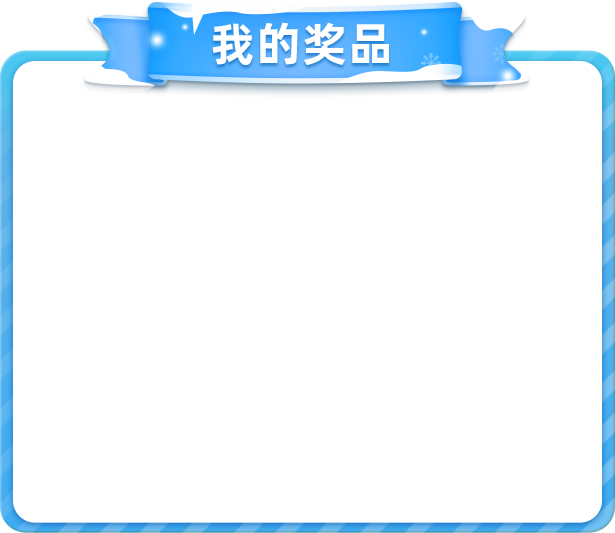
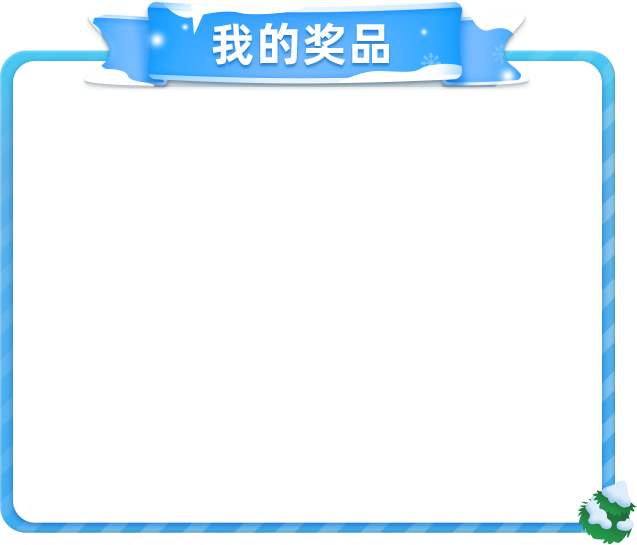
修改适配问题

Changed region(s): [[0.0, 0.0, 1.0, 1.0]]

diff --git a/src/panel/myprize/myprize.jsx b/src/panel/myprize/myprize.jsx
@@ -34,11 +34,11 @@ class Myprize extends React.Component {
   getPrizeList = async () => {
     const { success, data } = await API.getMyPrize();
     if (success && data?.length) {
-      // const list = data.filter((item)=> {
-      //   return item.extra.type !=1
-      // })
+      const list = data.filter((item)=> {
+        return item.extra.type !=1
+      })
       this.setState({
-        list:data,
+        list,
       });
     }
   };
@@ -56,6 +56,7 @@ class Myprize extends React.Component {
     const { list } = this.state;
     return (
       <div className="myprize">
+        <div className="fenwei"></div>
         <span className="popoverBaseplate3"></span>
         <span
           className="shutDown"
@@ -79,7 +80,6 @@ class Myprize extends React.Component {
           }
         </div>
 
-        <span className="iceAndSnowAtmosphere2"></span>
       </div>
     );
   }

diff --git a/src/panel/myprize/myprize.less b/src/panel/myprize/myprize.less
@@ -5,20 +5,28 @@
   position: absolute;
   transform: rotate(90deg);
   overflow: hidden;
+  .fenwei {
+    position: absolute;
+    left:0px;
+    top:150px;
+    width: 820px;
+    height: 219px;
+    .sparkBg("common/冰雪氛围2.png");
+  }
   .popoverBaseplate3 {
-    width: 615px;
-    height: 533px;
-    left: 74px;
+    width: 637px;
+    height: 545px;
+    left: 84px;
     top: 19px;
     position: absolute;
     .sparkBg("myPrize/弹窗底板3.png");
   }
   .text-prize {
     position: absolute;
-    top: 120px;
+    top: 118px;
     color: #000;
     width: 535px;
-    left: 113px;
+    left: 126px;
     text-align: center;
 
   }
@@ -33,9 +41,9 @@
   .prizelistbox {
     width: 535px;
     height: 366px;
-    position: absolute;
+    position: relative;
     top: 160px;
-    left: 113px;
+    left: 127px;
     overflow-y: auto;
     .prizelistitem {
       width: 100%;

diff --git a/src/pages/homePage/homePage.less b/src/pages/homePage/homePage.less
@@ -82,7 +82,7 @@
   .bottoml {
     width: 302px;
     height: 138px;
-    left: 230px;
+    left: 250px;
     top: 612px;
     position: absolute;
     .duiHuanShangDian {
@@ -120,7 +120,7 @@
   .bottomr {
     width: 298px;
     height: 139px;
-    left: 1084px;
+    left: 1070px;
     top: 611px;
     position: absolute;
     .yinghuangjin {
@@ -152,7 +152,7 @@
   .topleft {
     width: 421px;
     height: 74px;
-    left: 230px;
+    left: 250px;
     top: 24px;
     position: absolute;
     .lunbo {

diff --git a/src/panel/rule/rule.jsx b/src/panel/rule/rule.jsx
@@ -29,10 +29,10 @@ class Rule extends React.Component {
   render() {
     return (
       <div className="rule">
+        <div className="rule-fenwei"></div>
         <span className="popoverBaseplate5"></span>
         <p className="close" onClick={()=>modalStore.closePop("Rule")}></p>
         <article className="ruleInfo" dangerouslySetInnerHTML={{ __html: store.ruleInfo }}></article>
-        <span className="snowAndIceAtmosphere4"></span>
       </div>
     );
   }

diff --git a/src/panel/rule/rule.less b/src/panel/rule/rule.less
@@ -5,9 +5,17 @@
   position: absolute;
   transform: rotate(90deg);
   overflow:hidden !important;
+  .rule-fenwei {
+    position: absolute;
+    left:0px;
+    top:150px;
+    width: 820px;
+    height: 219px;
+    .sparkBg("common/冰雪氛围2.png");
+  }
   .popoverBaseplate5 {
-    width: 575px;
-    height: 531px;
+    width: 600px;
+    height: 543px;
     left: 111px;
     top: 20px;
     position: absolute;

diff --git a/sparkrc.js b/sparkrc.js
@@ -10,5 +10,5 @@ module.exports ={
   "IMAGE_Q2": 0.8,
   "RES_PATH": "/src/assets/",
   "RES_PATH_PROD": "//yun.duiba.com.cn/spark/v2/temp_base/1642735505833",
-  "JS_PATH_PROD": "https://yun.duiba.com.cn/spark/v2/temp_base/1642743379527/js"
+  "JS_PATH_PROD": "https://yun.duiba.com.cn/spark/v2/temp_base/1642745030820/js"
 }
